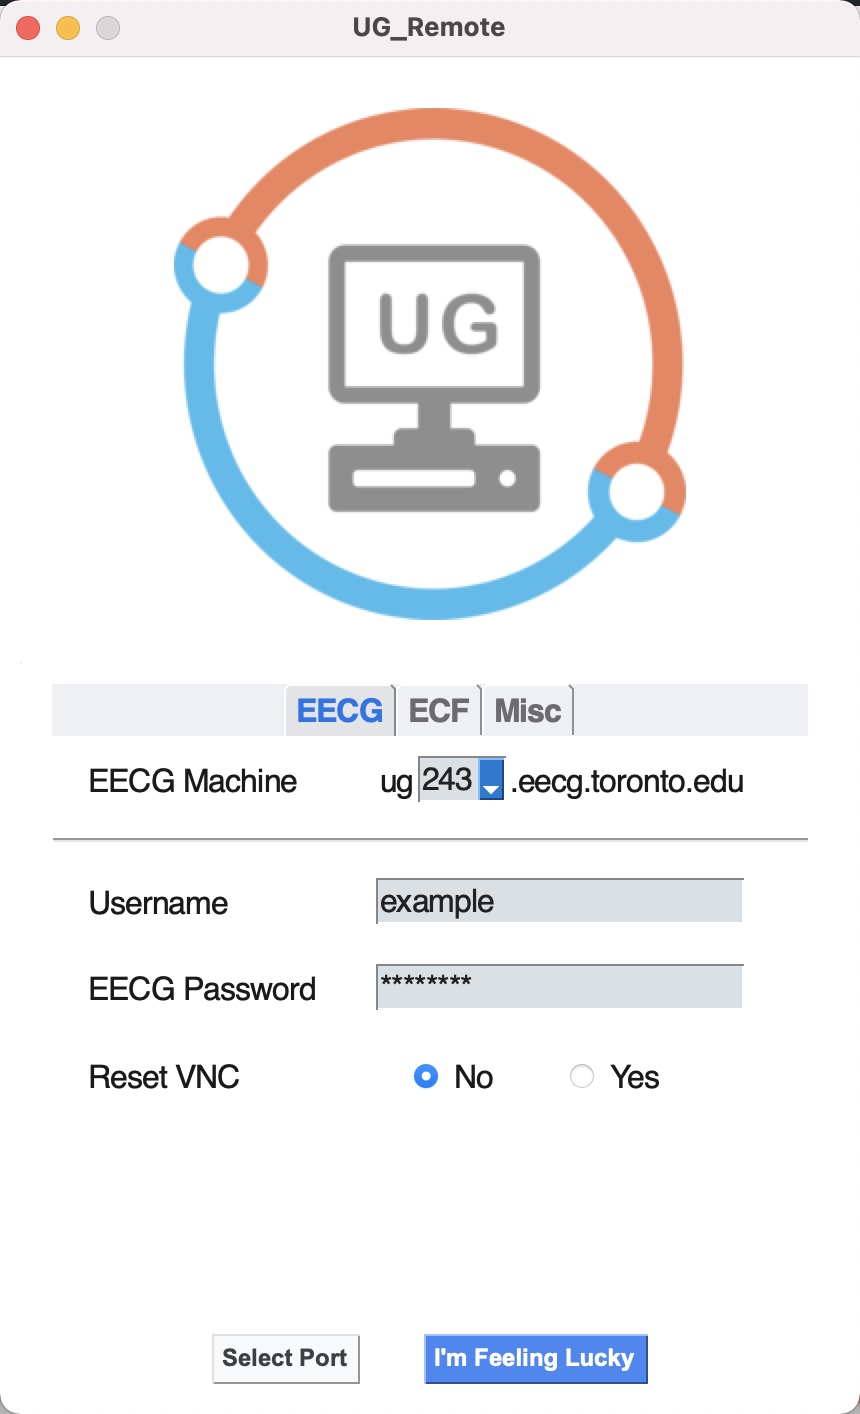
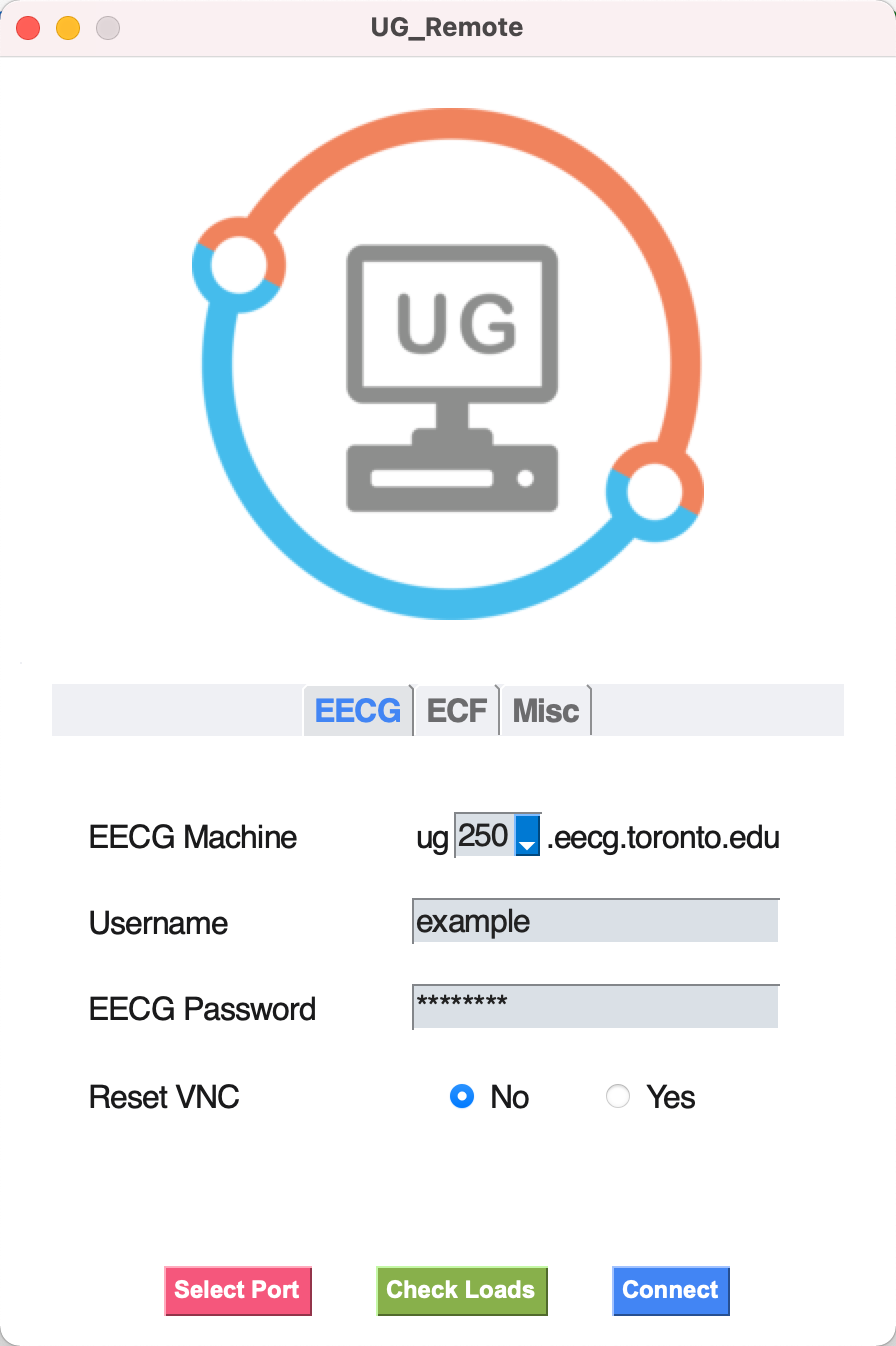
update documentations for v5.0.8

diff --git a/updater.py b/updater.py
@@ -2,8 +2,8 @@ import json
 from urllib.error import URLError
 from urllib.request import urlopen
 
-CURRENT_VER = (5, 0, 7)
-GITHUB_RELEASE_PAGE = "https://junhaoliao.github.io/UG_Remote/"
+CURRENT_VER = (5, 0, 8)
+UGREMOTE_DOWNLOAD_PAGE = "https://junhaoliao.github.io/UG_Remote/"
 LATEST_RELEASE_URL = "https://api.github.com/repos/junhaoliao/UG_Remote/releases/latest"
 
 

diff --git a/UG_Remote.py b/UG_Remote.py
@@ -73,7 +73,7 @@ while True:
                                   font=layout.FONT_HELVETICA_16,
                                   keep_on_top=True)
         if resp == "OK":
-            webbrowser.open(updater.GITHUB_RELEASE_PAGE)
+            webbrowser.open(updater.UGREMOTE_DOWNLOAD_PAGE)
 
     # Lookup event in function dictionary
     if event in dispatch_dictionary:

diff --git a/README.md b/README.md
@@ -1,19 +1,26 @@
 # UG_Remote
+
 **UofT EECG/ECF Lab Remote for macOS / Windows**
 
 [中文读我见下方](https://github.com/junhaoliao/UG_Remote#中文-读我)
 
-Following the steps in "Instructions" below will install everything you need to connect to U of T Engineering Labs through VNC, and connect with a simple GUI.
+Following the steps in "Instructions" below will install everything you need to connect to U of T Engineering Labs
+through VNC, and connect with a simple GUI.
 
 <img width=512 alt="UG_Remote_Demo" src="https://github.com/junhaoliao/UG_Remote/blob/main/demo/UG_Remote_demo.png?raw=true">
 
 ## Disclaimer
-Your EECG/ECF lab remote password, together with your VNC password when applicable, will be obfuscated and stored locally. Please understand the risk and do not use it on any public computers. If you have any concerns, please email to junhao@junhao.ca or junhao.liao@mail.utoronto.ca
+
+Your EECG/ECF lab remote password, together with your VNC password when applicable, will be obfuscated and stored
+locally. Please understand the risk and do not use it on any public computers. If you have any concerns, please email to
+junhao@junhao.ca or junhao.liao@mail.utoronto.ca
 
 You are welcome to visit my personal website: https://junhao.ca
 
 ## Instructions (macOS) - 5 Steps
-0. Download UG_Remote-5.x.x.dmg from the [**Releases**](https://github.com/junhaoliao/UG_Remote/releases) page and double-click to mount.
+
+0. Download UG_Remote-5.x.x.dmg from the [**Releases**](https://github.com/junhaoliao/UG_Remote/releases) page and
+   double-click to mount.
 1. From the mounted disk, drag "UG_Remote.app" into your "Applications" directory.
 2. Open the "De-Quarantine" workflow and click the upper-right "Run" button.
 3. If you haven't installed TigerVNC, drag "TigerVNC Viewer x.x.app" into your "Applications" directory.
@@ -28,6 +35,14 @@ to run.
 0. Download and extract UG_Remote_win64-5.x.x.zip from the **Releases** page. Double-click on "UG_Remote.exe".
 
 ## V5 Change Log
+
+This script is updated to v5.0.8 on February 8, 2021
+
+1. If user doesn't supply a machine number, randomly generate one
+2. Remove lock files on the host to avoid "stale" servers
+3. Disable the interface before everything is loaded up
+4. Permit VNC password longer than 8 characters
+5. Instead of only selecting the machine, "Connect" directly in "Check Loads"
 
 This script is updated to v5.0.7 on January 23, 2021
 
@@ -50,32 +65,40 @@ This script is updated to v5.0.4 on January 6, 2021
 2. Added author info
 
 This script is updated to v5.0.3 on December 28, 2020
+
 1. Added updater
 
 This script is updated to v5.0.2 on December 27, 2020
+
 1. Added support for ECF
 
 This script is updated to v5.0.1 on December 24, 2020
+
 1. Added a "random port selection" feature
 2. Redesigned user interface
 3. Added installer for windows
 
 This script is updated to v5.0.0 on December 19, 2020
-1. Now we use Python. Goodbye C++. 
+
+1. Now we use Python. Goodbye C++.
 
 ## This setup is possible thanks to the following free libraries/tools
+
 1. TigerVNC: https://tigervnc.org/
 2. Paramiko: http://www.paramiko.org/
 3. PySimpleGUI: https://pysimplegui.readthedocs.io/
 
-## Special Thanks to... 
+## Special Thanks to...
+
 - Richard Shen: Uoft Architect Undergraduate, helped make the icon with Adobe Illustrator for this project.
 - Olivia Ziting Xu: Uoft Architect Undergraduate, helped with some Mac OS translations in the Chinese README.
 
 # 中文 读我
+
 以下 "使用说明" 的步骤将安装远程VNC连接到多大工程系机房你所需的一切，并通过图形界面简易连接。
 
 ## 声明
+
 你的EECG/ECF密码，当适用时及VNC密码，将在混淆后本地存储。请明晰风险并不要在公共电脑上使用。如有疑问欢迎来邮junhao.liao@mail.utoronto.ca 或 junhao@junhao.ca
 
 欢迎来我的个人网站逛逛：https://junhao.ca
@@ -92,6 +115,14 @@ This script is updated to v5.0.0 on December 19, 2020
 0. 从**Releases**页面下载并解压UG_Remote_win64-5.x.x.zip。双击"UG_Remote.exe"。
 
 ## V5 版本说明
+
+本脚本于2021年2月8日更新v5.0.8。
+
+1. 如果用户没有选择机器号码，随机生成一个
+2. 在主机上删除lock文件，以防服务器"stale"
+3. 在所有东西加载出来前禁用界面
+4. 允许多于8位的VNC密码
+5. "检查负载"时，"Connect"而不是单单选中
 
 本脚本于2021年1月23日更新v5.0.7。
 
@@ -114,24 +145,30 @@ This script is updated to v5.0.0 on December 19, 2020
 2. 新增作者信息
 
 本脚本于2020年12月28日更新v5.0.3。
+
 1. 新增升级器
 
 本脚本于2020年12月27日更新v5.0.2。
+
 1. 新增ECF支持
 
 本脚本于2020年12月24日更新v5.0.1。
+
 1. 新增"随机选择端口"功能
 2. 重新设计操作界面
 3. 新增Windows安装器
 
 本脚本于2020年12月19日更新v5.0.0。
+
 1. 再见，C++。你好呀，Python。
 
 ## 在此感谢以下开源软件/库开发者
+
 1. TigerVNC: https://tigervnc.org/
 2. Paramiko: http://www.paramiko.org/
 3. PySimpleGUI: https://pysimplegui.readthedocs.io/
 
 ## 特别感谢
+
 - Richard Shen：多伦多大学建筑系本科，使用Adobe Illustrator制作了本脚本的图标。
 - Olivia Ziting Xu：多伦多大学建筑系本科，协助了中文读我中有关Mac OS部分的翻译。
